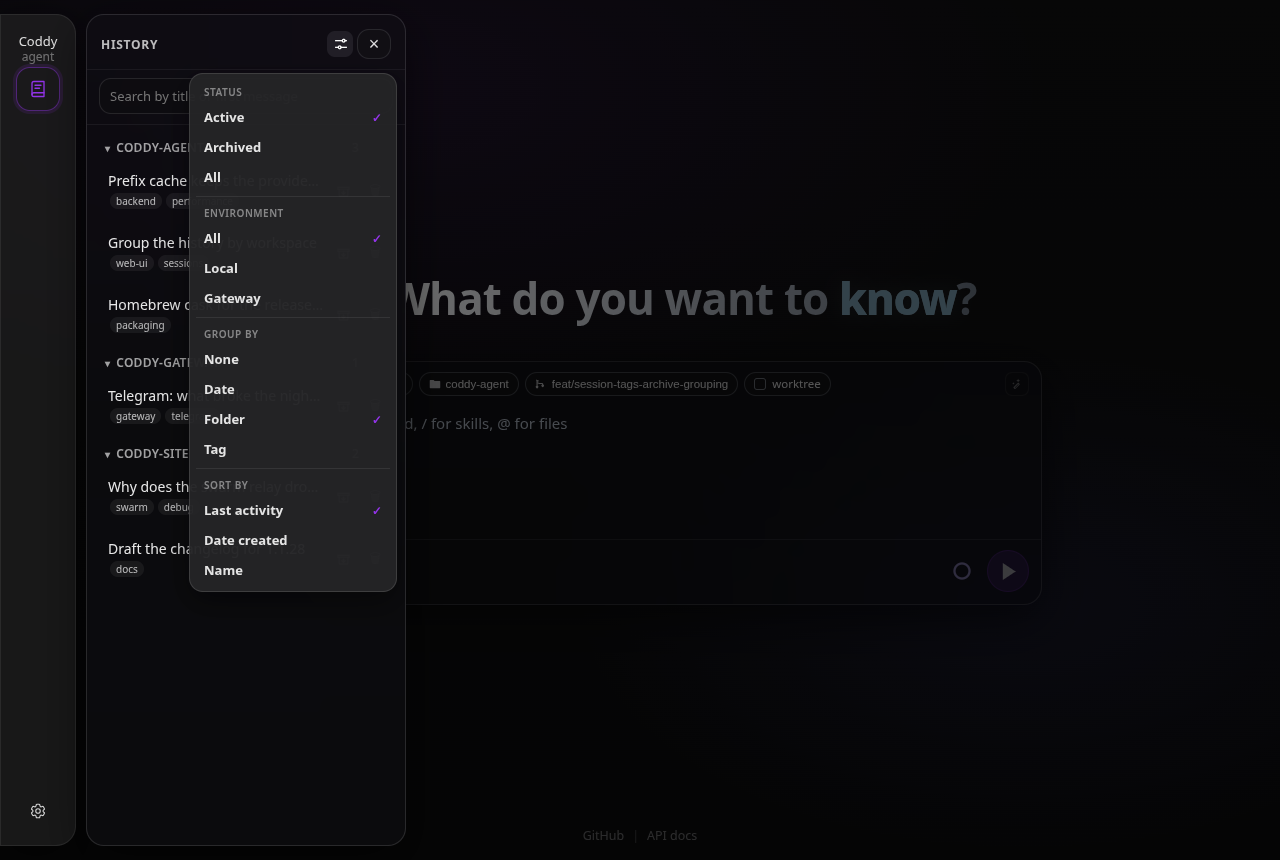
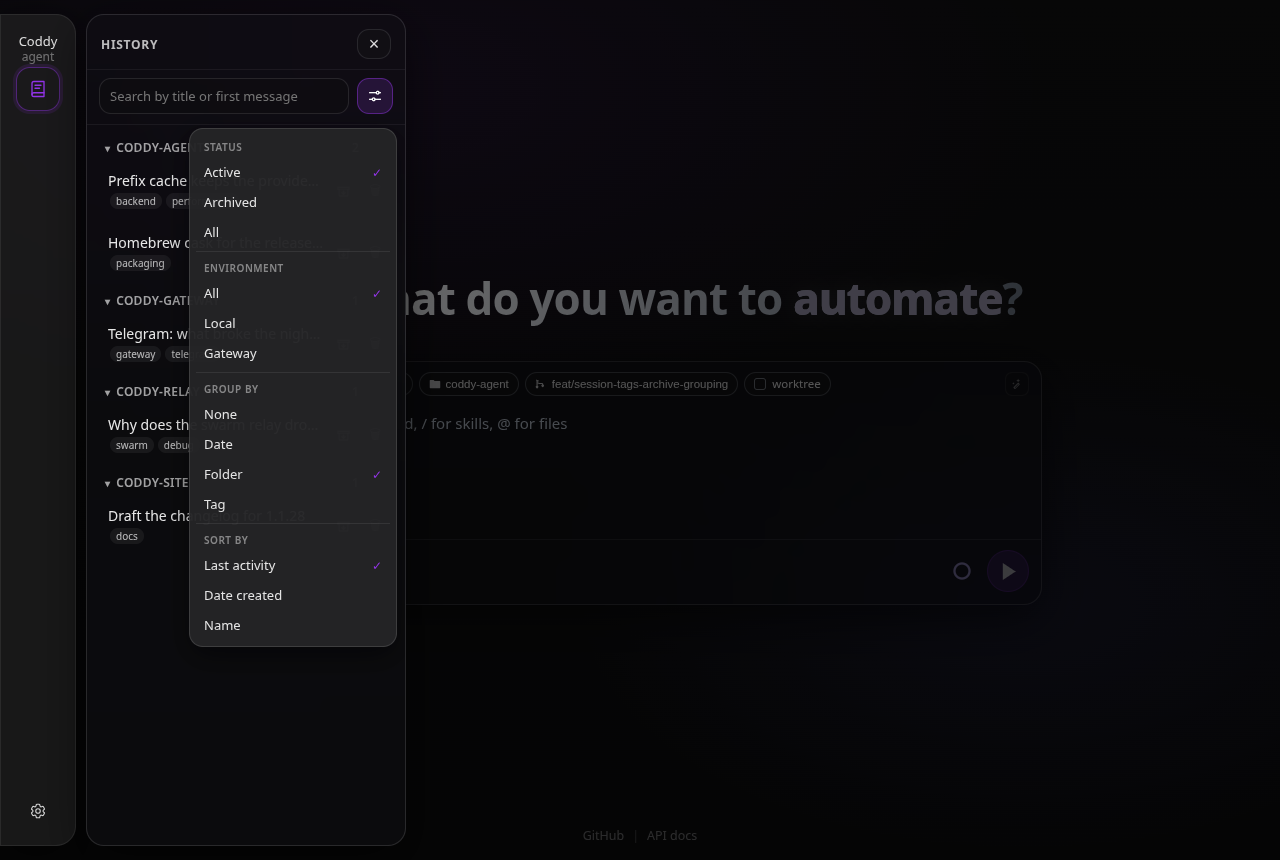
fix: the History filter control belongs with the search, not the close button
It opened a menu that narrows the list below, and it sat in the drawer
head next to a button that closes the whole drawer - two unrelated jobs
side by side. It now sits at the right end of the search row, which is
the other control that narrows the same list, and takes the height and
corner radius of the search field so the row reads as one strip.

Changed region(s): [[0.0938, 0.0907, 0.3125, 0.7558], [0.3125, 0.3326, 0.8125, 0.393]]

diff --git a/external/ui/src/ui/sessions/SessionsSidebar.tsx b/external/ui/src/ui/sessions/SessionsSidebar.tsx
@@ -319,42 +319,15 @@ export function SessionsSidebar(props: {
     >
       <div className="sessions-head">
         <span>{t("sessions.history")}</span>
-        <div className="sessions-head-actions">
-          <button
-            type="button"
-            className={`sessions-filter-trigger${filtersOpen ? " is-open" : ""}`}
-            aria-label={t("sessions.filter.menu")}
-            title={t("sessions.filter.menu")}
-            aria-haspopup="menu"
-            aria-expanded={filtersOpen}
-            data-testid="sessions-filter-trigger"
-            onClick={() => setFiltersOpen((prev) => !prev)}
-          >
-            <IconFilters />
-          </button>
-          <button
-            type="button"
-            className="sessions-close"
-            aria-label={t("sessions.closeHistory")}
-            data-testid="sessions-close"
-            onClick={props.onClose}
-          >
-            ×
-          </button>
-        </div>
-        <SessionsFilterMenu
-          open={filtersOpen}
-          onClose={() => setFiltersOpen(false)}
-          archiveFilter={archiveFilter}
-          onArchiveFilterChange={(value) =>
-            props.onArchiveFilterChange?.(value)
-          }
-          groupMode={groupMode}
-          onGroupModeChange={(mode) => props.onGroupModeChange?.(mode)}
-          sortKey={sortKey}
-          onSortKeyChange={(key) => props.onSortKeyChange?.(key)}
-          {...(props.environments ? { environments: props.environments } : {})}
-        />
+        <button
+          type="button"
+          className="sessions-close"
+          aria-label={t("sessions.closeHistory")}
+          data-testid="sessions-close"
+          onClick={props.onClose}
+        >
+          ×
+        </button>
       </div>
 
       <div className="sessions-search-row">
@@ -378,6 +351,34 @@ export function SessionsSidebar(props: {
             ×
           </button>
         ) : null}
+        {/* The filters sit with the search, not up in the head beside the
+            close button: both narrow the list below, and the close button
+            does something else entirely. */}
+        <button
+          type="button"
+          className={`sessions-filter-trigger${filtersOpen ? " is-open" : ""}`}
+          aria-label={t("sessions.filter.menu")}
+          title={t("sessions.filter.menu")}
+          aria-haspopup="menu"
+          aria-expanded={filtersOpen}
+          data-testid="sessions-filter-trigger"
+          onClick={() => setFiltersOpen((prev) => !prev)}
+        >
+          <IconFilters />
+        </button>
+        <SessionsFilterMenu
+          open={filtersOpen}
+          onClose={() => setFiltersOpen(false)}
+          archiveFilter={archiveFilter}
+          onArchiveFilterChange={(value) =>
+            props.onArchiveFilterChange?.(value)
+          }
+          groupMode={groupMode}
+          onGroupModeChange={(mode) => props.onGroupModeChange?.(mode)}
+          sortKey={sortKey}
+          onSortKeyChange={(key) => props.onSortKeyChange?.(key)}
+          {...(props.environments ? { environments: props.environments } : {})}
+        />
       </div>
 
       <div className="session-list" id="session-list" ref={listRef}>

diff --git a/external/ui/src/styles.css b/external/ui/src/styles.css
@@ -1497,34 +1497,36 @@ a.rail-brand {
   color: color-mix(in srgb, var(--text) 90%, var(--coddy-blend-base));
 }
 
-/* The head holds the title, the filter control and the close button; the menu
-   hangs off it, so it is the positioning context. */
-.sessions-head {
+/* The filter control sits in the search row - both narrow the list below - so
+   that row is what the menu hangs off. */
+.sessions-search-row {
   position: relative;
 }
 
-.sessions-head-actions {
-  display: flex;
-  align-items: center;
-  gap: 4px;
-}
-
+/* The same box as the search field beside it - height and corner radius - so
+   the row reads as one strip of controls rather than a field with a smaller
+   button parked next to it. */
 .sessions-filter-trigger {
-  width: 26px;
-  height: 26px;
+  width: 36px;
+  height: 36px;
   display: grid;
   place-items: center;
-  border: 0;
-  border-radius: 8px;
-  background: transparent;
-  color: color-mix(in srgb, var(--text) 62%, var(--coddy-blend-base));
+  border-radius: 12px;
+  border: 1px solid color-mix(in srgb, var(--text) 10%, var(--coddy-blend-base));
+  background: rgba(20, 20, 22, 0.35);
+  color: color-mix(in srgb, var(--text) 72%, var(--coddy-blend-base));
   cursor: pointer;
+  flex-shrink: 0;
 }
 
 .sessions-filter-trigger:hover,
 .sessions-filter-trigger.is-open {
   color: var(--text);
-  background: color-mix(in srgb, var(--text) 8%, var(--coddy-blend-base));
+  border-color: color-mix(in srgb, var(--accent) 45%, transparent);
+}
+
+.sessions-filter-trigger.is-open {
+  background: color-mix(in srgb, var(--accent) 16%, rgba(20, 20, 22, 0.35));
 }
 
 /* The backdrop only catches the click that dismisses the menu; it draws

diff --git a/docs/surfaces/web-ui.md b/docs/surfaces/web-ui.md
@@ -262,7 +262,7 @@ Functional checklist for **Settings -> Logical models -> Reasoning levels**
 - **History** panel lists sessions via `GET /coddy/sessions` (still a **drawer**, not a persistent second column).
 - Pagination uses `limit` and `cursor`, with **infinite scroll** for older rows.
 - Optional **`q`** query string (**title, workspace path, a tag, or the first **`user`** message content**, case insensitive substring; **not** full-chat search). Search input updates use client debouncing.
-- **Everything that decides what the list shows is one control**: the sliders button in the drawer head opens a menu with four sections (**`SessionsFilterMenu.tsx`**). The sections are flat, with a tick on the current value, rather than nested submenus: a drawer is narrow, and a hover-to-open submenu in it is a worse target than one more line of text.
+- **Everything that decides what the list shows is one control**: the sliders button at the right end of the search row opens a menu with four sections (**`SessionsFilterMenu.tsx`**). It sits with the search because both narrow the list below; the drawer head keeps only its close button. The sections are flat, with a tick on the current value, rather than nested submenus: a drawer is narrow, and a hover-to-open submenu in it is a worse target than one more line of text.
   - **Status** - **Active** (the default), **Archived**, **All**: the **`archived`** query parameter. It leads, because it is the question asked most often.
   - **Environment** - **All**, **Local**, **Gateway**, then one row per configured remote. The first three narrow the listing of whichever server is being read (**`origin`**): every conversation, the ones opened on this host, or the chats a messenger gateway is holding. A remote row points the whole app at that server, the same switch the composer's environment chip makes; the section is left out entirely when there is only one row to choose from.
   - **Group by** - **None**, **Date** (the default), **Folder**, **Tag**.

diff --git a/DESIGN.md b/DESIGN.md
@@ -267,11 +267,14 @@ Single implementation: **`MarkdownLineEditor`** in **`external/ui/src/ui/markdow
 
 ### History grouping, tags and the archive
 
-- **One control, not a row of them.** A sliders button (**`.sessions-filter-trigger`**, 26px) sits in the
-  drawer **head** beside the close button, and everything that decides what the list shows lives in the
-  menu it opens (**`.sessions-filter-menu`**): Status, Environment, Group by, Sort by - status first,
-  because "am I looking at the archive" is the question asked most often. The head is the
-  menu's positioning context (**`position: relative`**), and the menu hangs under it at **`right: 8px`**.
+- **One control, not a row of them.** A sliders button (**`.sessions-filter-trigger`**) sits at the right
+  end of the **search row**, and everything that decides what the list shows lives in the menu it opens
+  (**`.sessions-filter-menu`**): Status, Environment, Group by, Sort by - status first, because "am I
+  looking at the archive" is the question asked most often. It belongs with the search because both
+  narrow the list below, and not in the head, where its neighbour would be a close button that does
+  something else entirely. It takes the **height and corner radius of the search field** beside it
+  (36px, 12px) so the row reads as one strip of controls. The search row is the menu's positioning
+  context (**`position: relative`**), and the menu hangs under it at **`right: 8px`**.
 - **The menu is opaque.** It uses the **tooltip** surface (**`--coddy-tip-bg`** / **`--coddy-tip-shadow`**),
   not the glass panel: it sits directly over the list it filters, and a translucent panel there is read
   through. Sections are flat, separated by a hairline and labelled in 10px uppercase
